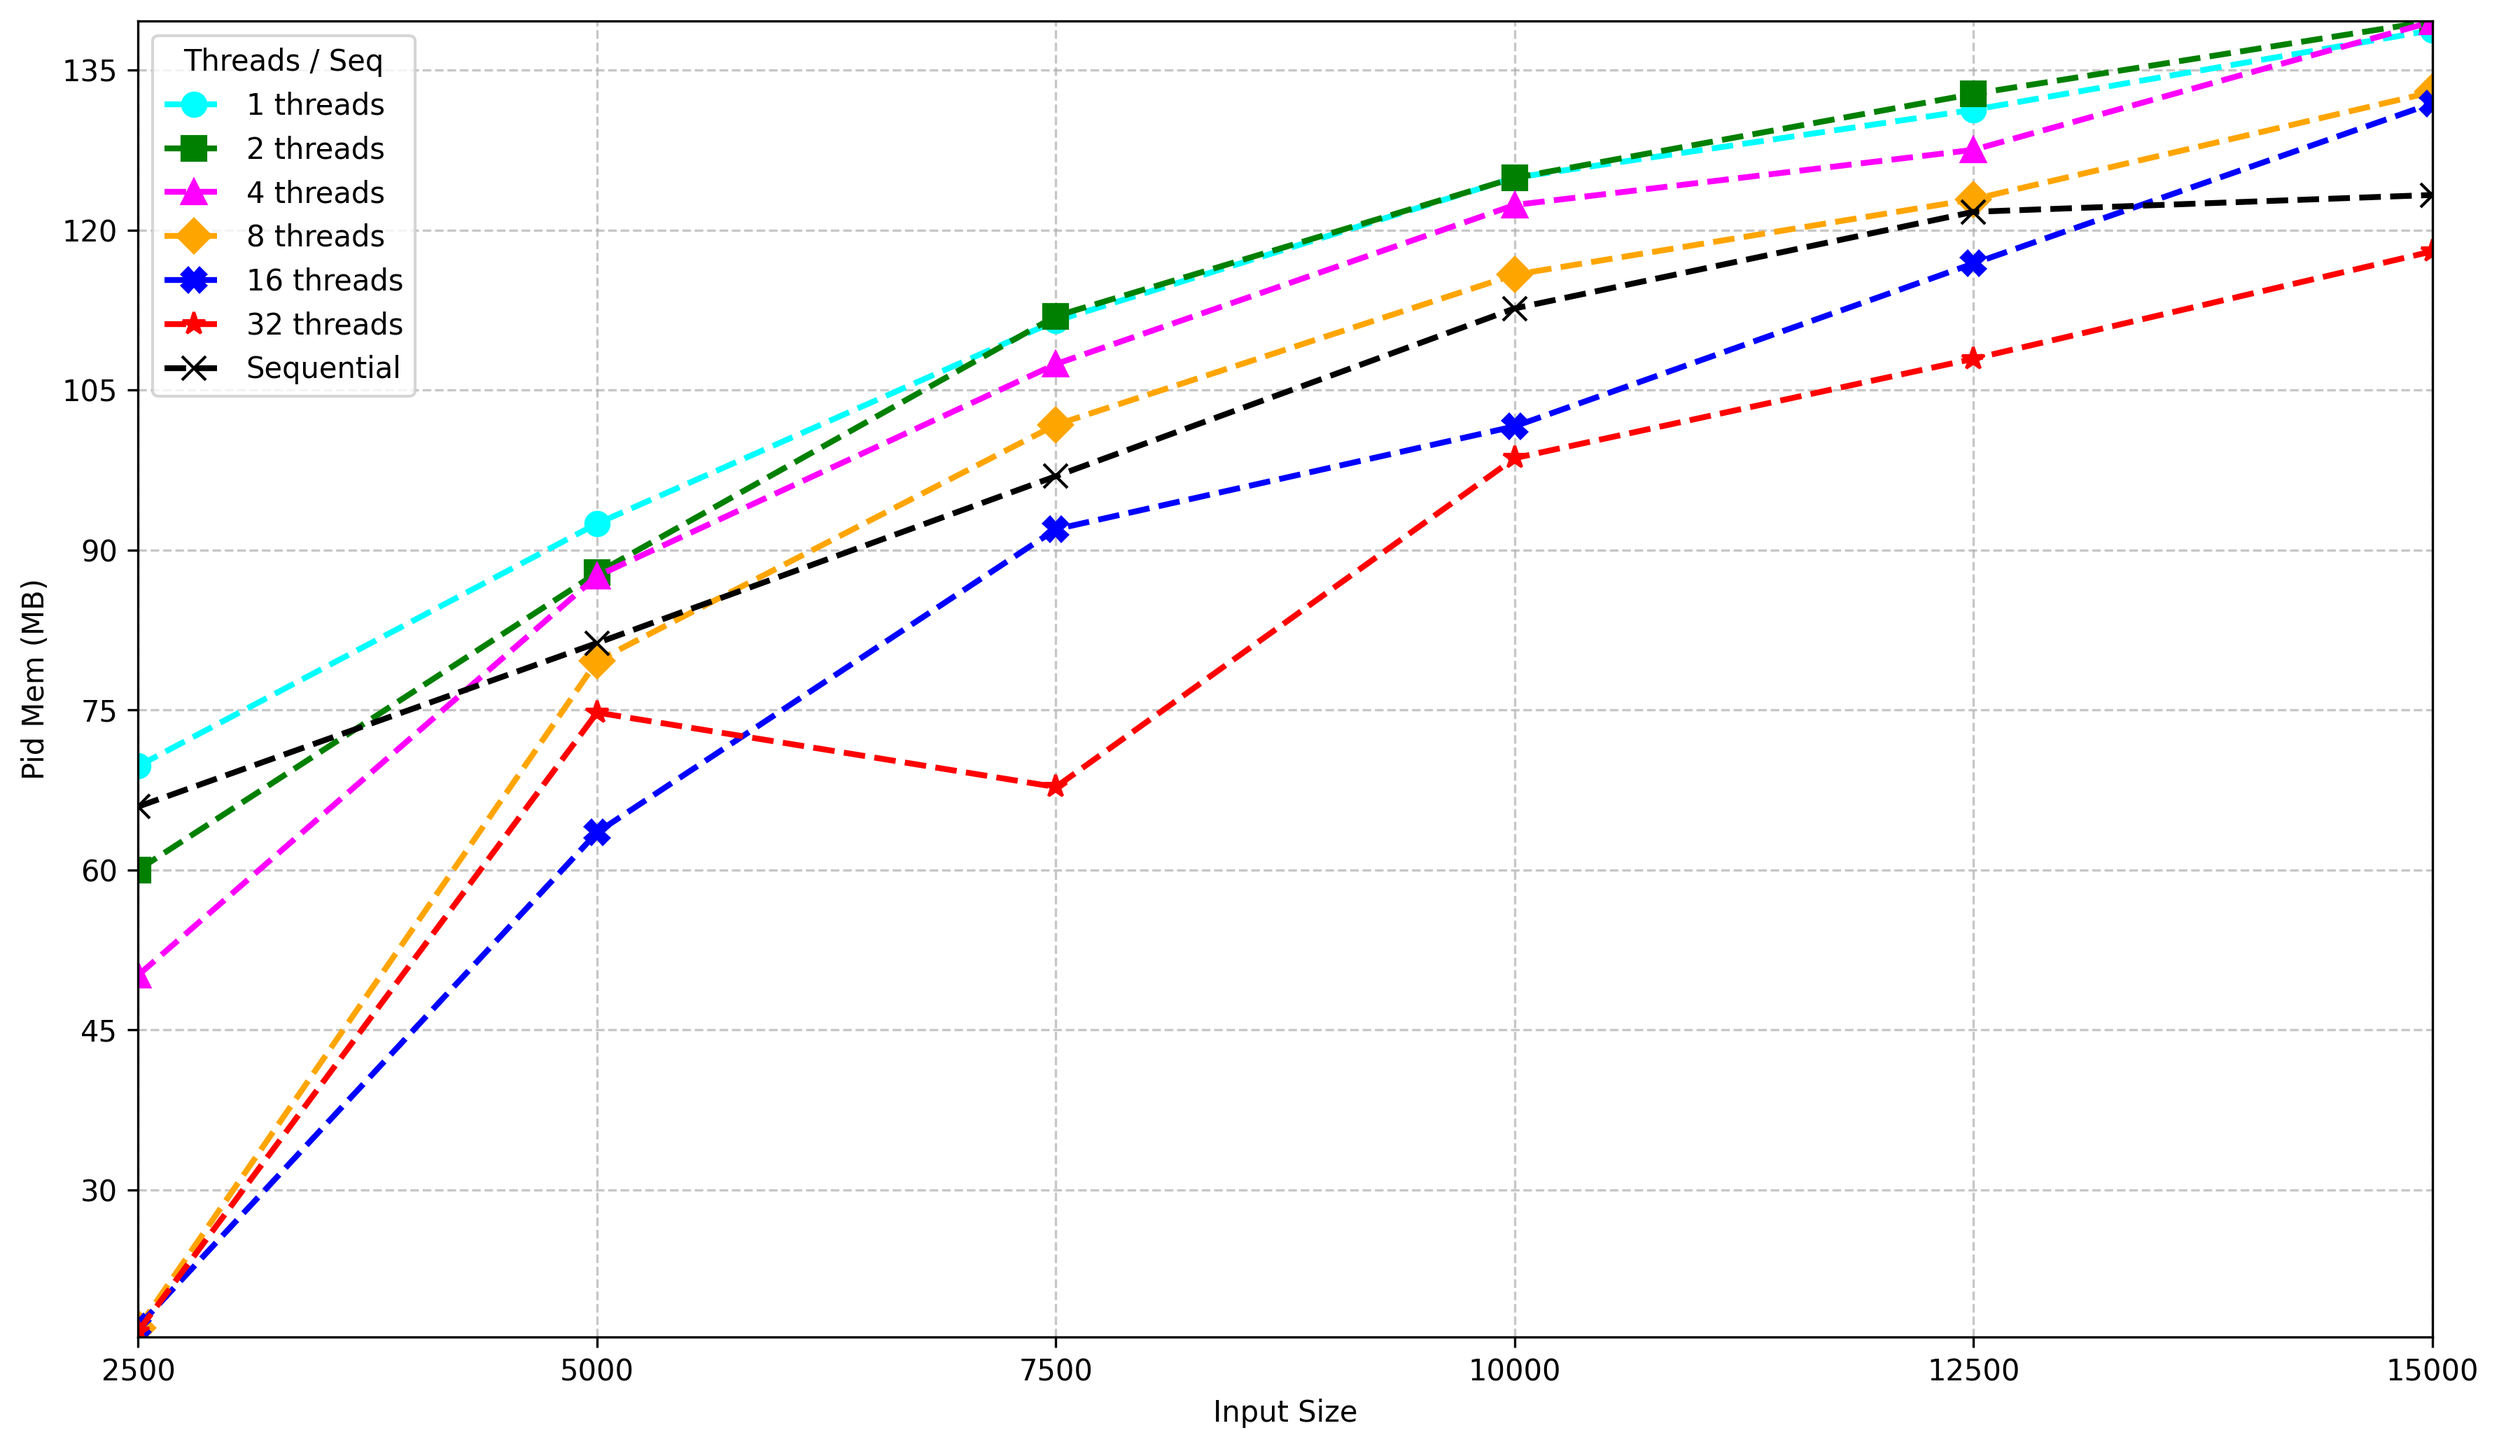
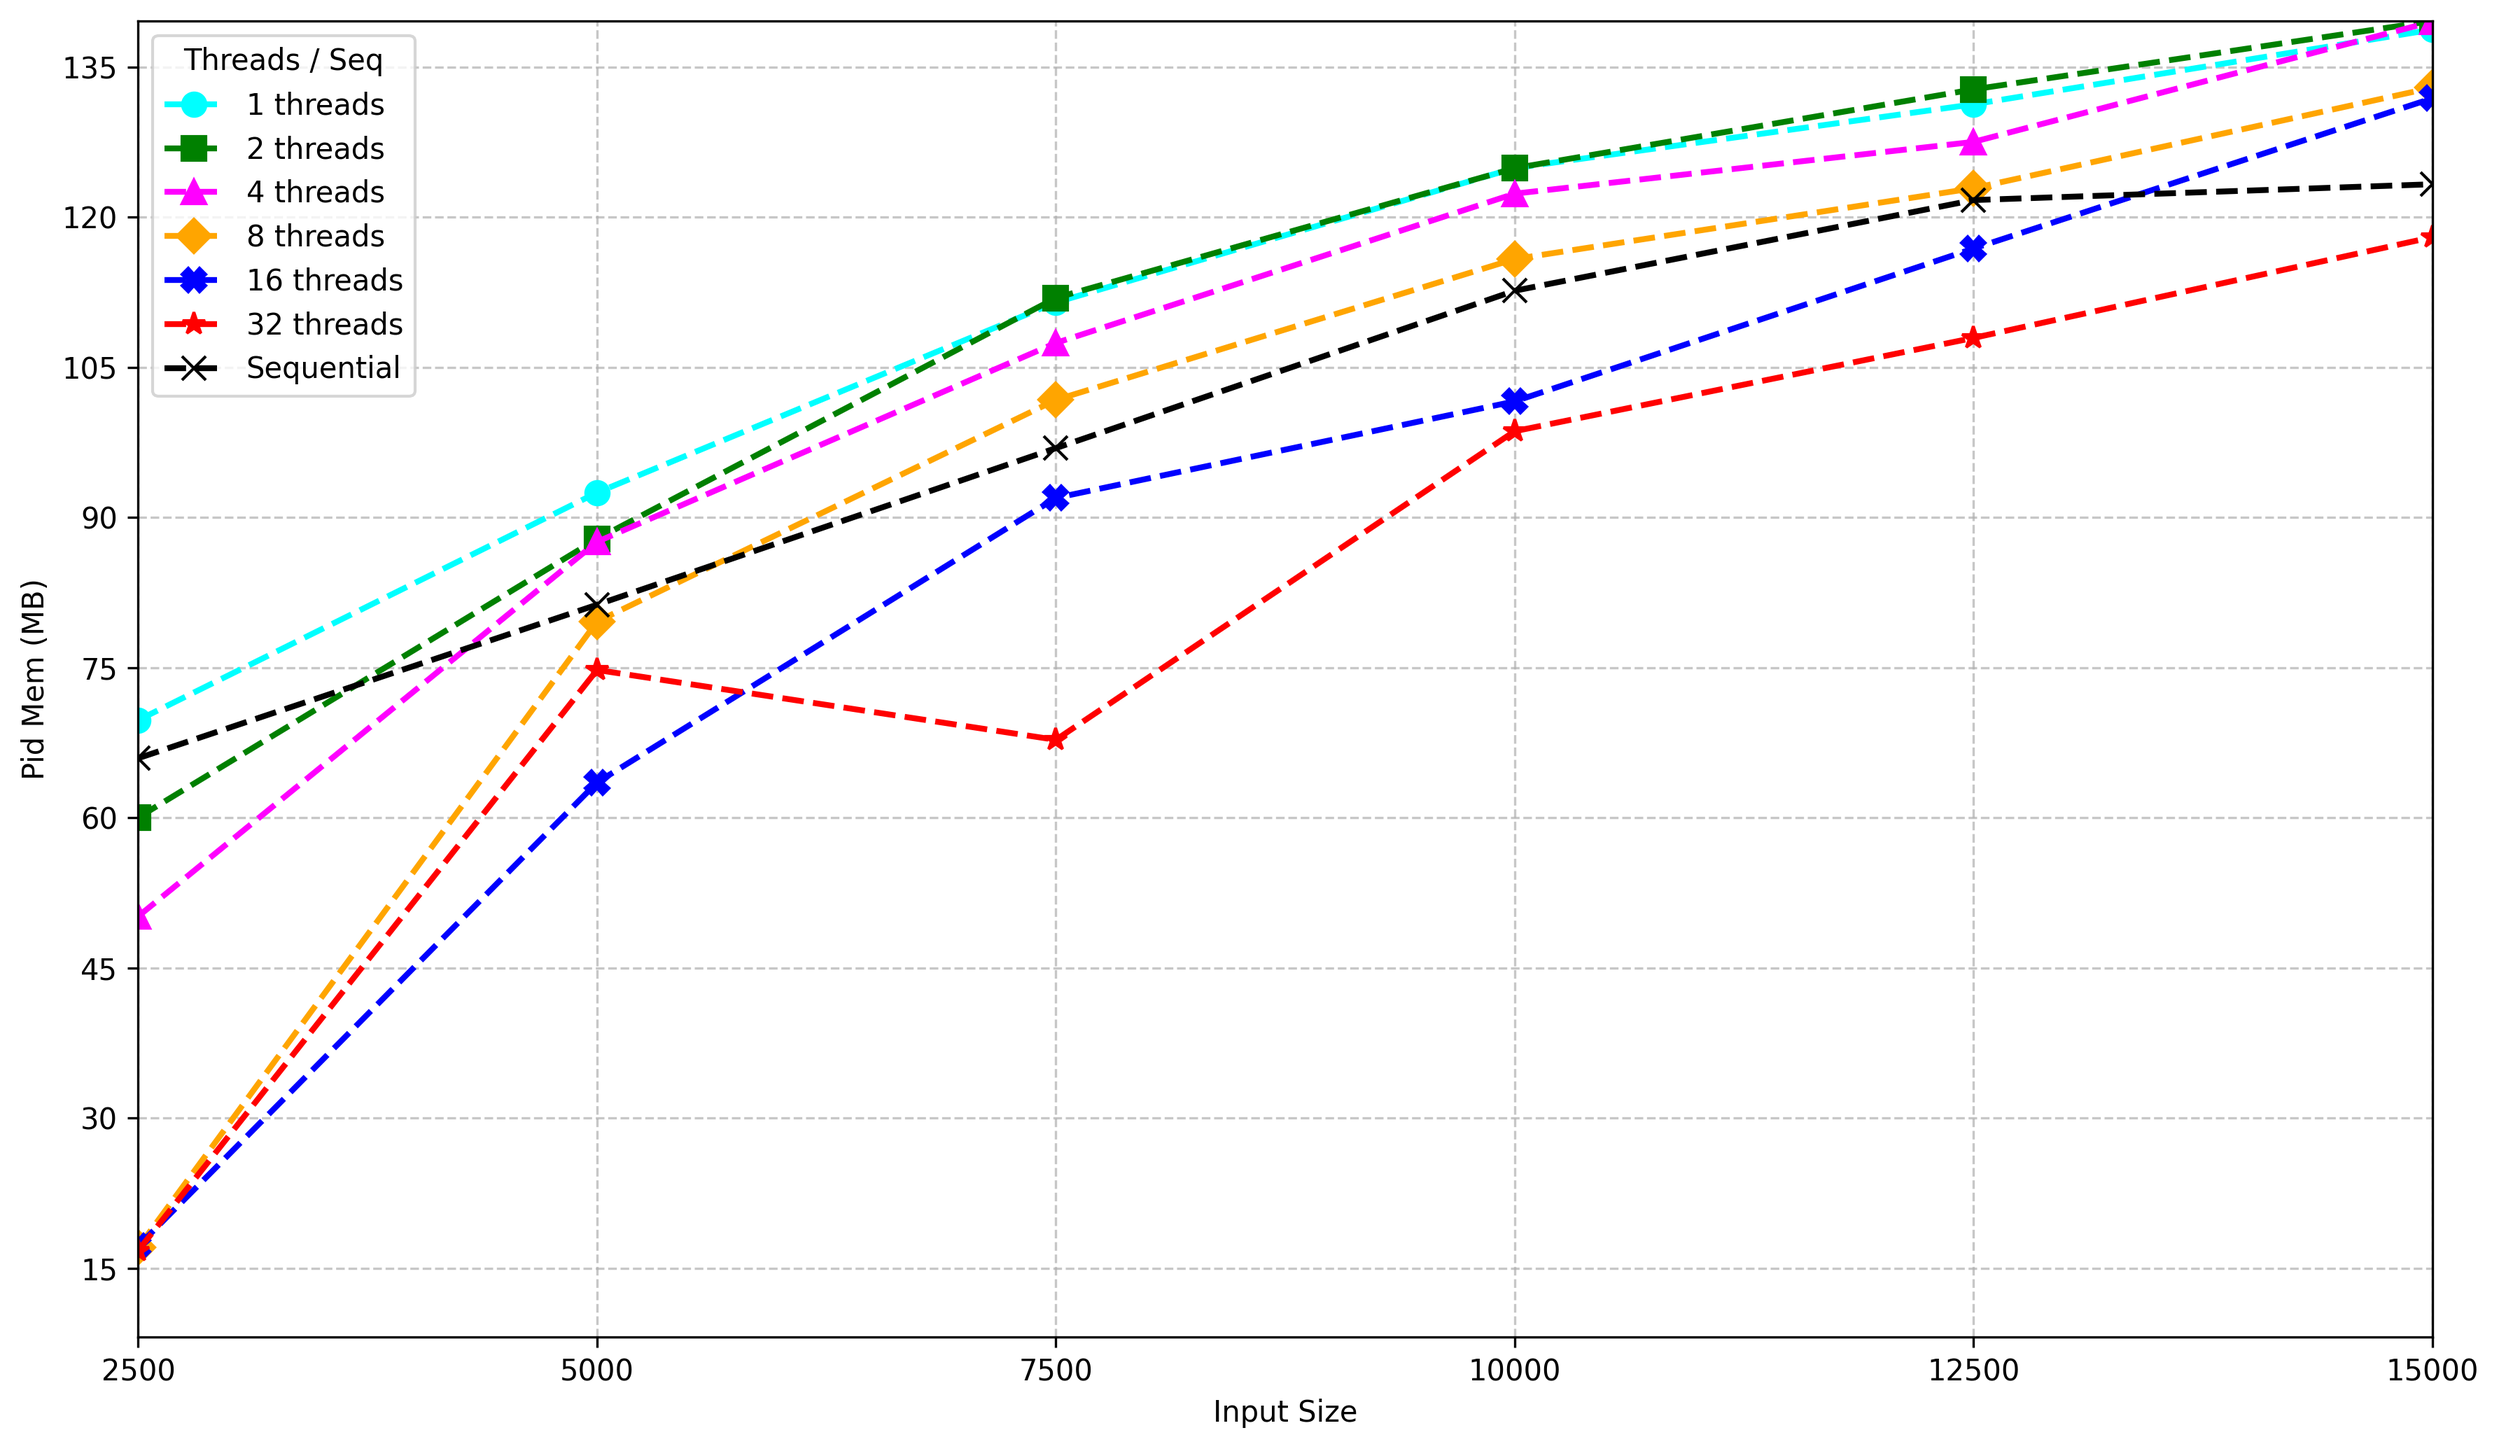
spectral norm memory stuff looking nice

diff --git a/Assignment2/plots/new_plot_stuff.py b/Assignment2/plots/new_plot_stuff.py
@@ -928,7 +928,7 @@ output_dir=None, independent_metrics=None, metrics_to_normalize_by_input=None):
         #if metric (or is part of the metric list to normalize)
                 #max_y_metric = max_y_metric / 32768 #average of input size
 
-        ax.set_ylim(0, max_y_metric * 1.05)
+        ax.set_ylim(-1, max_y_metric * 1.05)
         ax.yaxis.set_major_locator(ticker.MaxNLocator(nbins=10, prune='both'))
         ax.legend(title="Threads / Seq")
         ax.grid(True, linestyle='--', alpha=0.7)
@@ -1080,9 +1080,15 @@ output_dir=None, baseline_mem=None):
         ax.set_xlim(0, len(input_sizes) - 1)
 
         if metric == "free_mem" and baseline_subtract_true:
-            ax.set_ylim(y1, y0)
+            if selected_subfolder == "mandelbrot":
+                ax.set_ylim(y1 * -1.001, y0)
+            else:
+                ax.set_ylim(y1 * 0.9, y0)
         else:
-            ax.set_ylim(y0, y1)
+            if selected_subfolder == "mandelbrot":
+                ax.set_ylim(y0 * -1.001, y1)
+            else:
+                ax.set_ylim(y0 * 0.5, y1)
         ax.yaxis.set_major_locator(ticker.MaxNLocator(nbins=10, prune='both'))
         ax.legend(title="Threads / Seq")
         ax.grid(True, linestyle='--', alpha=0.7)
